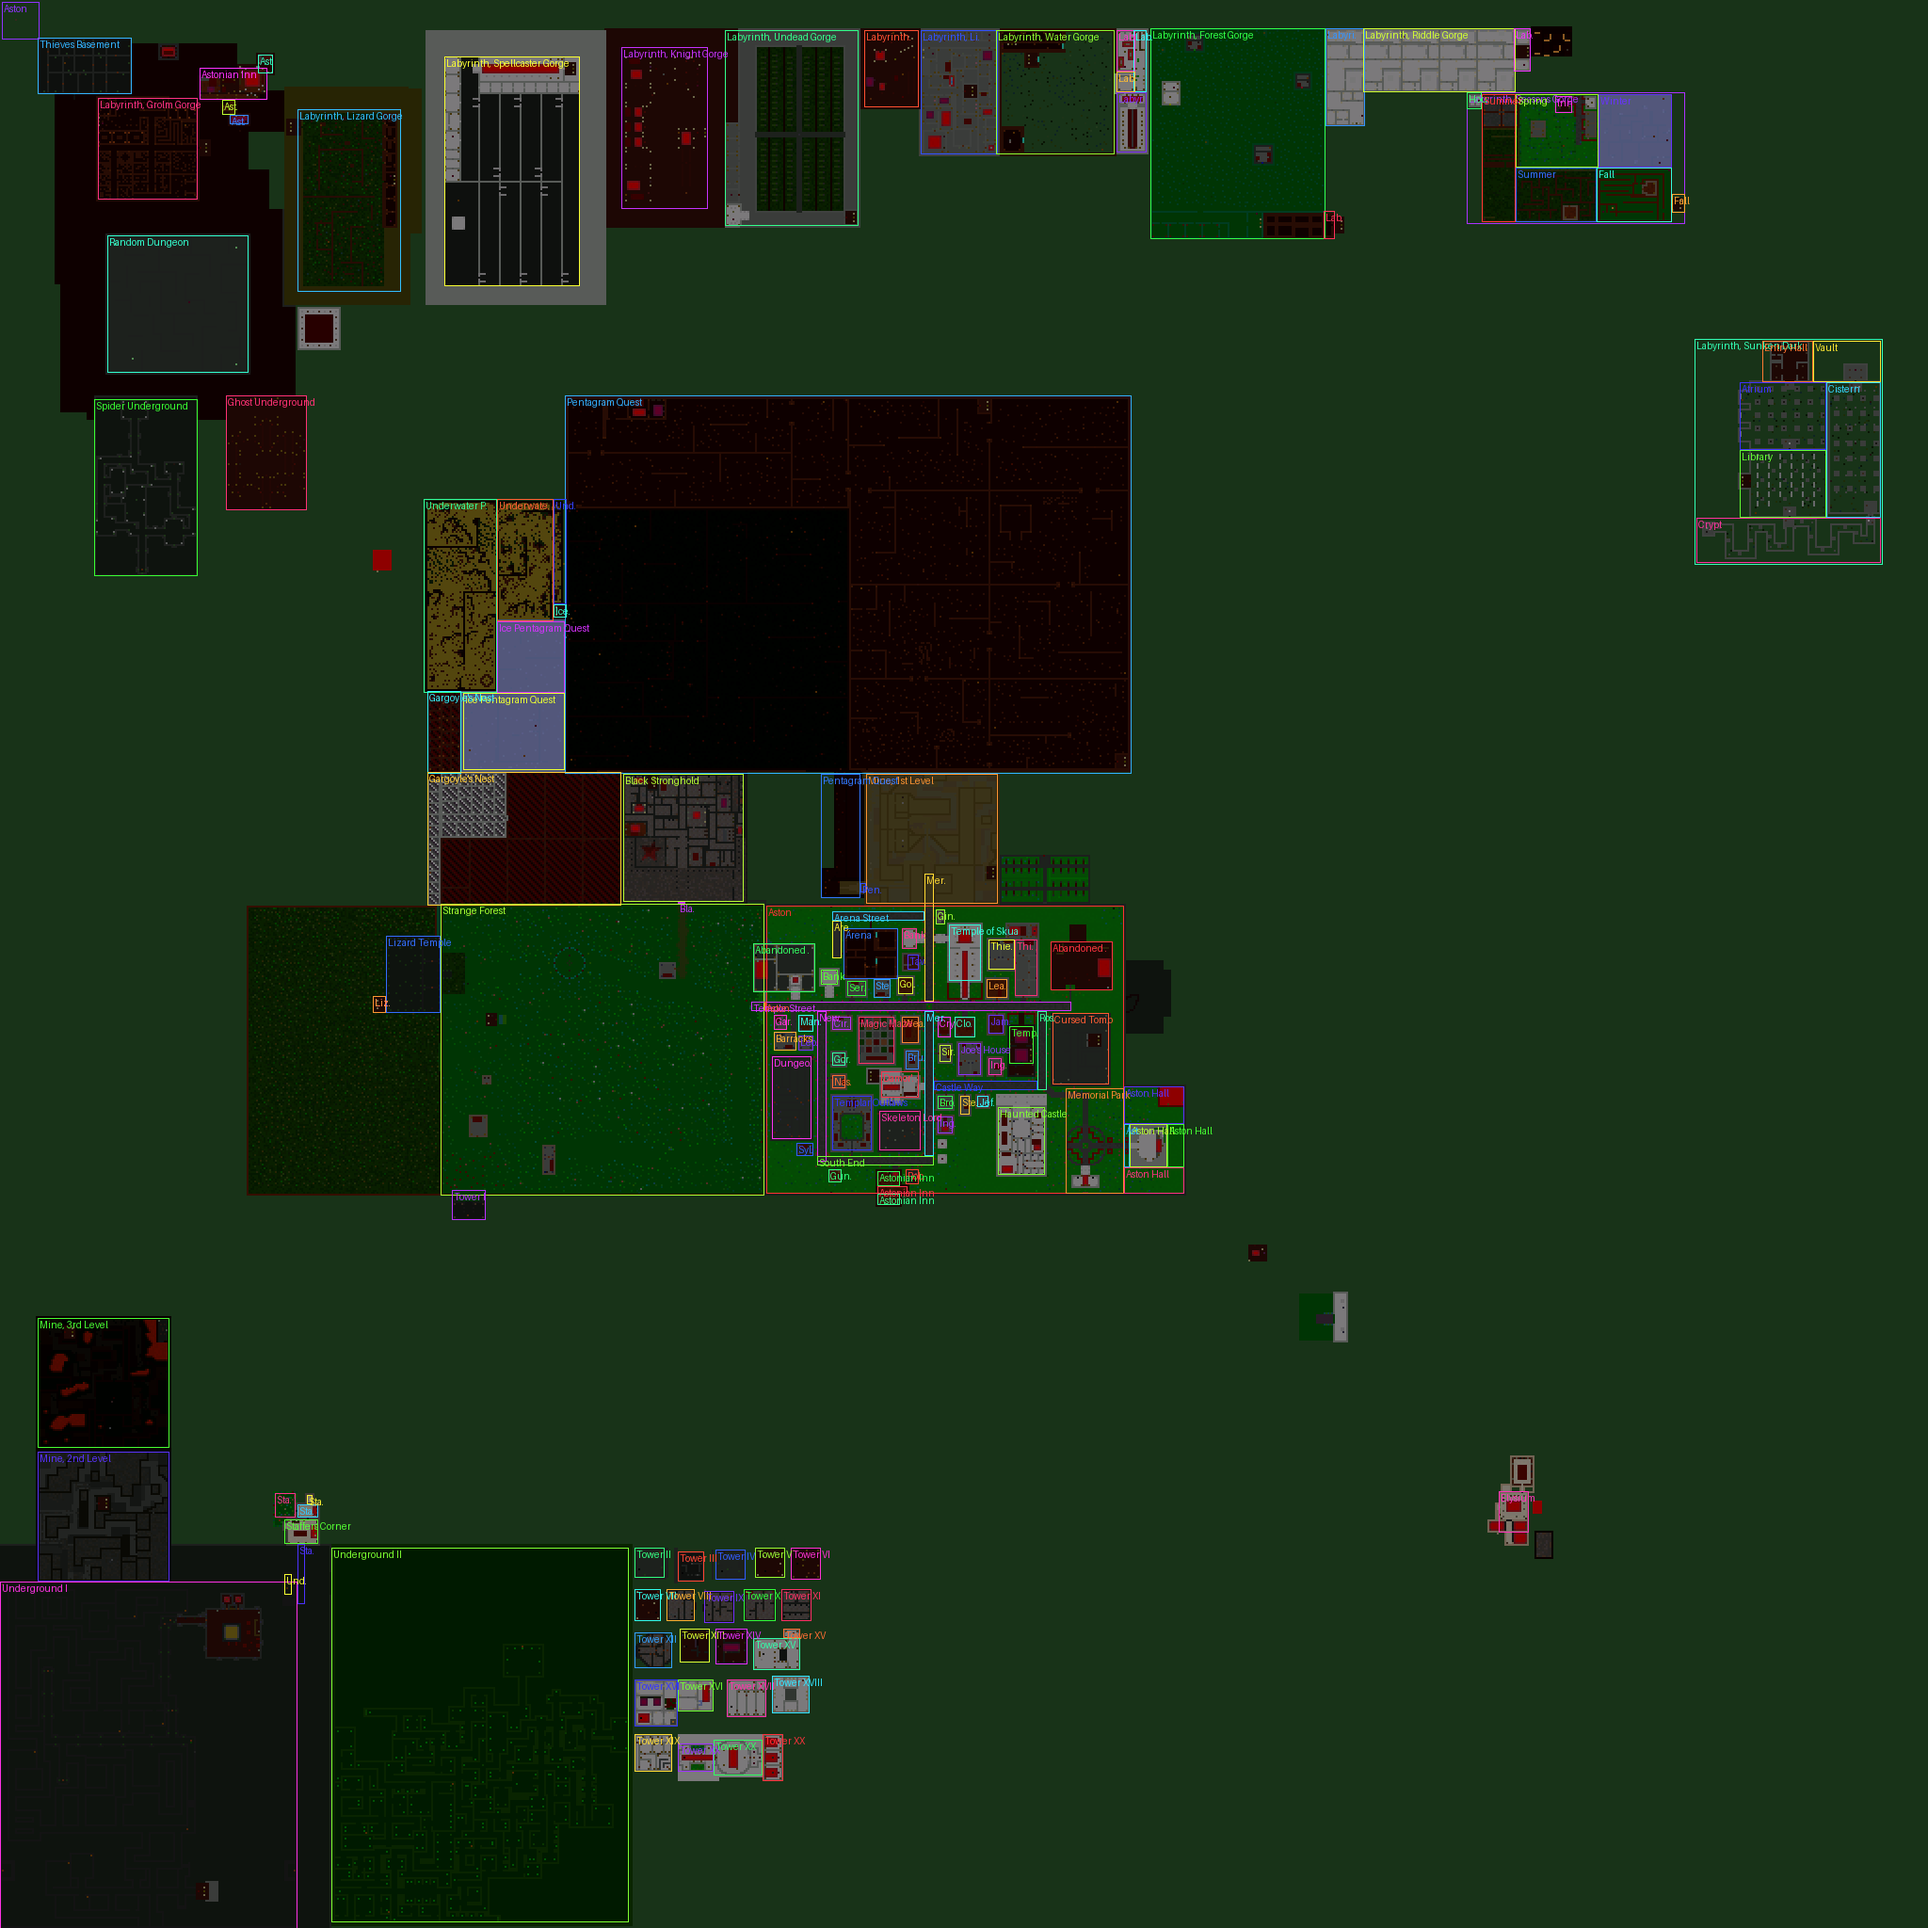
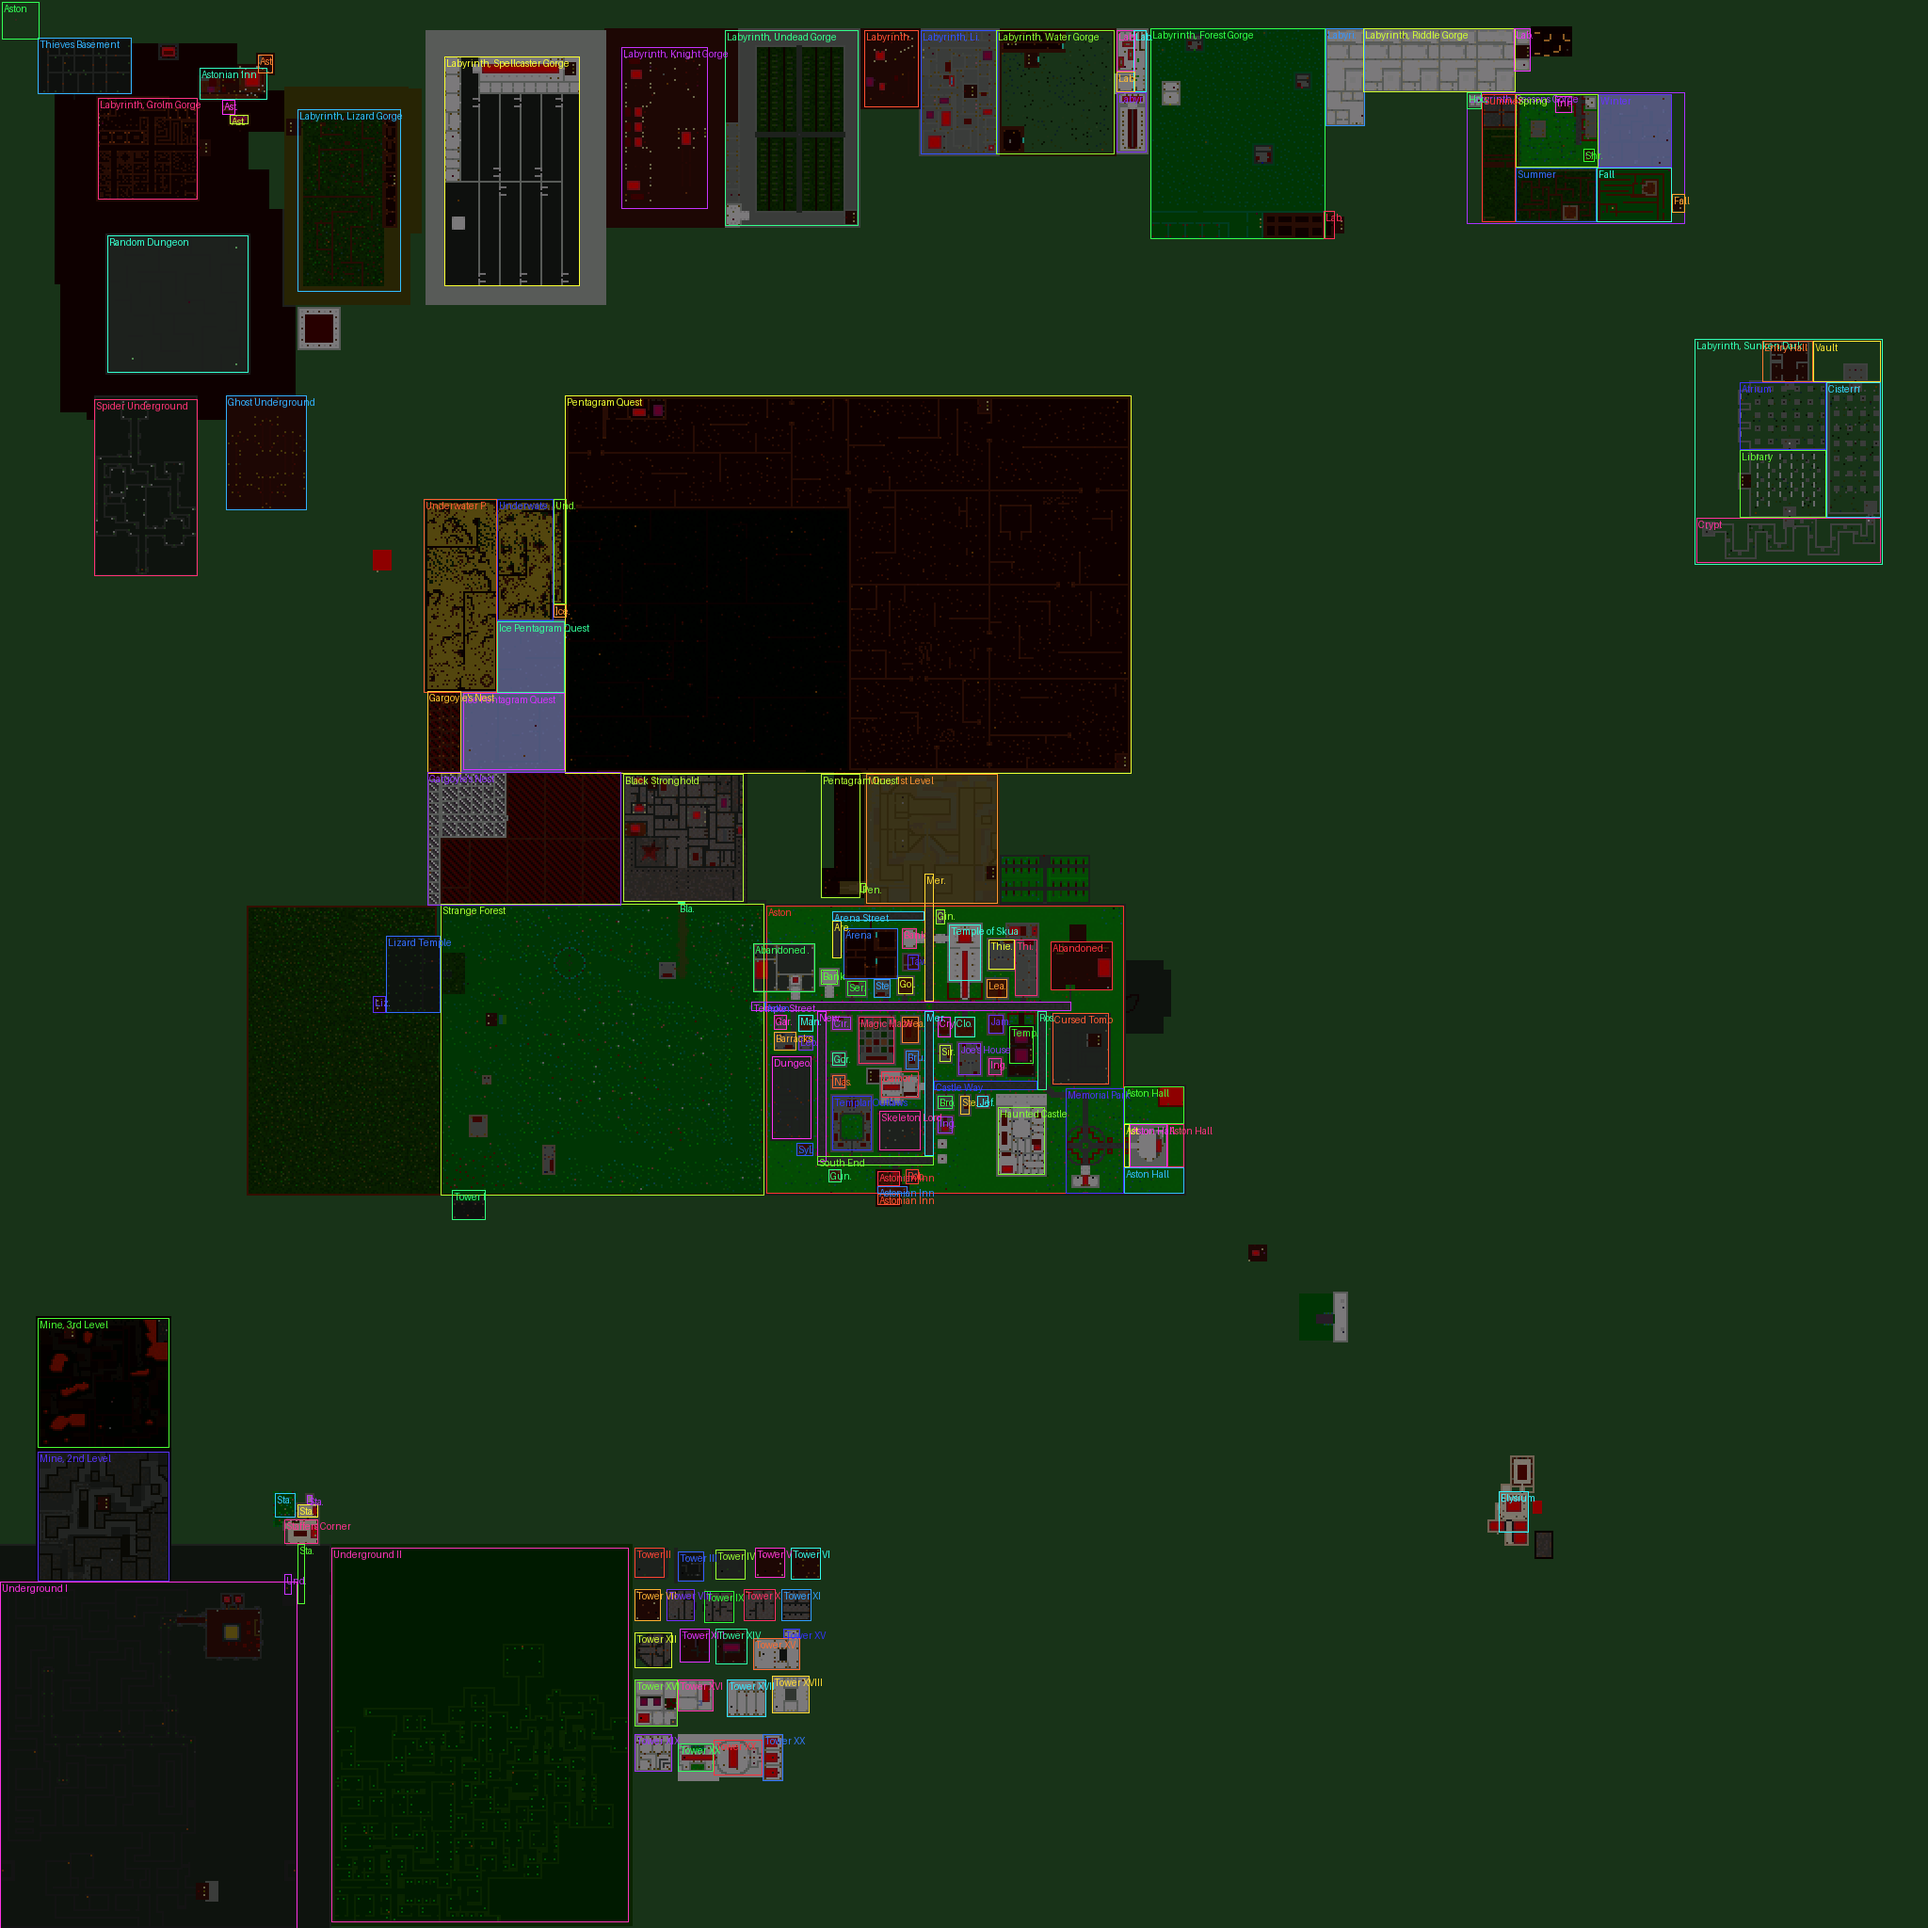
docs: maps redrawn (Lab 10 Shrine of Change)
Claude-Session: https://claude.ai/code/session_01MSjWpMgByR7PswdtguveBk

diff --git a/docs/world_zones.md b/docs/world_zones.md
@@ -103,66 +103,67 @@ Shown by `/who`, by NPCs when asked where you are, and in server logs. A spot in
 | 93 | Fall | 89,848 | 117,887 | "in Fall" |
 | 94 | Fall | 103,888 | 112,894 | "in Fall" |
 | 95 | Winter | 50,849 | 88,887 | "in Winter" |
-| 96 | Spider Underground | 212,50 | 305,104 | "in the Spider Underground" |
-| 97 | Ghost Underground | 210,120 | 270,162 | "in the Ghost Underground" |
-| 98 | Pentagram Quest | 210,300 | 410,600 | "in the Pentagram Quest" |
-| 99 | Ice Pentagram Quest | 368,246 | 408,299 | "in the Ice Pentagram Quest" |
-| 100 | Ice Pentagram Quest | 330,264 | 367,299 | "in the Ice Pentagram Quest" |
-| 101 | Underwater Pentagram Quest | 265,225 | 367,263 | "in the Underwater Pentagram Quest" |
-| 102 | Underwater Pentagram Quest | 265,264 | 329,293 | "in the Underwater Pentagram Quest" |
-| 103 | Underwater Pentagram Quest | 265,294 | 320,300 | "in the Underwater Pentagram Quest" |
-| 104 | Underground II | 822,176 | 1020,333 | "in the Underground II" |
-| 105 | Elysium | 792,796 | 813,811 | "in the Elysium" |
-| 106 | Gargoyle's Nest | 367,227 | 410,244 | "in the Gargoyle's Nest" |
-| 107 | Gargoyle's Nest | 410,227 | 480,329 | "in the Gargoyle's Nest" |
-| 108 | Aston | 1,1 | 20,20 | "in Aston" |
-| 109 | Astonian Inn | 622,466 | 629,477 | "in the Astonian Inn" |
-| 110 | Astonian Inn | 630,466 | 633,481 | "in the Astonian Inn" |
-| 111 | Astonian Inn | 61,122 | 65,131 | "in the Astonian Inn" |
-| 112 | Astonian Inn | 53,118 | 60,124 | "in the Astonian Inn" |
-| 113 | Astonian Inn | 36,106 | 52,141 | "in the Astonian Inn" |
-| 114 | Astonian Inn | 29,137 | 38,144 | "in the Astonian Inn" |
-| 115 | Memorial Park | 578,566 | 633,596 | "in the Memorial Park" |
-| 116 | Staffers Corner | 820,158 | 851,161 | "in the Staffers Corner" |
-| 117 | Staffers Corner | 807,151 | 819,168 | "in the Staffers Corner" |
-| 118 | Staffers Corner | 793,146 | 805,156 | "in the Staffers Corner" |
-| 119 | Staffers Corner | 799,158 | 805,168 | "in the Staffers Corner" |
-| 120 | Staffers Corner | 794,163 | 798,165 | "in the Staffers Corner" |
-| 121 | Tower I | 632,240 | 647,257 | "in the Tower I" |
-| 122 | Tower II | 822,337 | 837,352 | "in the Tower II" |
-| 123 | Tower III | 824,360 | 839,373 | "in the Tower III" |
-| 124 | Tower IV | 823,380 | 838,395 | "in the Tower IV" |
-| 125 | Tower V | 822,401 | 837,416 | "in the Tower V" |
-| 126 | Tower VI | 822,420 | 838,435 | "in the Tower VI" |
-| 127 | Tower VII | 844,337 | 860,350 | "in the Tower VII" |
-| 128 | Tower VIII | 844,354 | 860,368 | "in the Tower VIII" |
-| 129 | Tower IX | 845,374 | 861,389 | "in the Tower IX" |
-| 130 | Tower X | 844,395 | 860,411 | "in the Tower X" |
-| 131 | Tower XI | 844,415 | 860,430 | "in the Tower XI" |
-| 132 | Tower XII | 867,337 | 885,356 | "in the Tower XII" |
-| 133 | Tower XIII | 865,361 | 882,376 | "in the Tower XIII" |
-| 134 | Tower XIV | 865,380 | 883,396 | "in the Tower XIV" |
-| 135 | Tower XV | 870,400 | 886,424 | "in the Tower XV" |
-| 136 | Tower XV | 865,416 | 869,424 | "in the Tower XV" |
-| 137 | Tower XVI | 892,337 | 916,359 | "in the Tower XVI" |
-| 138 | Tower XVI | 892,360 | 908,378 | "in the Tower XVI" |
-| 139 | Tower XVII | 892,386 | 911,406 | "in the Tower XVII" |
-| 140 | Tower XVIII | 890,410 | 909,429 | "in the Tower XVIII" |
-| 141 | Tower XIX | 921,337 | 940,356 | "in the Tower XIX" |
-| 142 | Tower XX | 926,360 | 940,378 | "in the Tower XX" |
-| 143 | Tower XX | 924,379 | 942,404 | "in the Tower XX" |
-| 144 | Tower XX | 921,405 | 945,415 | "in the Tower XX" |
-| 145 | Pentagram Quest | 411,436 | 476,456 | "in the Pentagram Quest" |
-| 146 | Aston Hall | 597,600 | 619,619 | "in Aston Hall" |
-| 147 | Lizard Temple Shrine | 529,198 | 537,204 | "in the Lizard Temple Shrine" |
-| 148 | Ice Pents Shrine | 321,294 | 327,300 | "in the Ice Pents Shrine" |
-| 149 | Lizard Temple Shrine | 529,198 | 537,204 | "in the Lizard Temple Shrine" |
-| 150 | Aston Hall | 577,597 | 596,628 | "in the Aston Hall" |
-| 151 | Aston Hall | 597,620 | 619,628 | "in the Aston Hall" |
-| 152 | Aston Hall | 620,597 | 633,628 | "in the Aston Hall" |
-| 153 | Aston Hall | 597,597 | 619,599 | "in the Aston Hall" |
-| 154 | Underground I | 836,151 | 846,154 | "in the Underground I" |
-| 155 | Black Stronghold | 479,360 | 479,363 | "in the Black Stronghold" |
-| 156 | Astonian Inn | 634,466 | 639,477 | "in the Astonian Inn" |
-| 157 | Aston | 532,406 | 536,406 | "in Aston" |
-| 158 | Pentagram Quest | 469,457 | 473,459 | "in the Pentagram Quest" |
+| 96 | Shrine of Change | 79,841 | 85,846 | "in the Shrine of Change" |
+| 97 | Spider Underground | 212,50 | 305,104 | "in the Spider Underground" |
+| 98 | Ghost Underground | 210,120 | 270,162 | "in the Ghost Underground" |
+| 99 | Pentagram Quest | 210,300 | 410,600 | "in the Pentagram Quest" |
+| 100 | Ice Pentagram Quest | 368,246 | 408,299 | "in the Ice Pentagram Quest" |
+| 101 | Ice Pentagram Quest | 330,264 | 367,299 | "in the Ice Pentagram Quest" |
+| 102 | Underwater Pentagram Quest | 265,225 | 367,263 | "in the Underwater Pentagram Quest" |
+| 103 | Underwater Pentagram Quest | 265,264 | 329,293 | "in the Underwater Pentagram Quest" |
+| 104 | Underwater Pentagram Quest | 265,294 | 320,300 | "in the Underwater Pentagram Quest" |
+| 105 | Underground II | 822,176 | 1020,333 | "in the Underground II" |
+| 106 | Elysium | 792,796 | 813,811 | "in the Elysium" |
+| 107 | Gargoyle's Nest | 367,227 | 410,244 | "in the Gargoyle's Nest" |
+| 108 | Gargoyle's Nest | 410,227 | 480,329 | "in the Gargoyle's Nest" |
+| 109 | Aston | 1,1 | 20,20 | "in Aston" |
+| 110 | Astonian Inn | 622,466 | 629,477 | "in the Astonian Inn" |
+| 111 | Astonian Inn | 630,466 | 633,481 | "in the Astonian Inn" |
+| 112 | Astonian Inn | 61,122 | 65,131 | "in the Astonian Inn" |
+| 113 | Astonian Inn | 53,118 | 60,124 | "in the Astonian Inn" |
+| 114 | Astonian Inn | 36,106 | 52,141 | "in the Astonian Inn" |
+| 115 | Astonian Inn | 29,137 | 38,144 | "in the Astonian Inn" |
+| 116 | Memorial Park | 578,566 | 633,596 | "in the Memorial Park" |
+| 117 | Staffers Corner | 820,158 | 851,161 | "in the Staffers Corner" |
+| 118 | Staffers Corner | 807,151 | 819,168 | "in the Staffers Corner" |
+| 119 | Staffers Corner | 793,146 | 805,156 | "in the Staffers Corner" |
+| 120 | Staffers Corner | 799,158 | 805,168 | "in the Staffers Corner" |
+| 121 | Staffers Corner | 794,163 | 798,165 | "in the Staffers Corner" |
+| 122 | Tower I | 632,240 | 647,257 | "in the Tower I" |
+| 123 | Tower II | 822,337 | 837,352 | "in the Tower II" |
+| 124 | Tower III | 824,360 | 839,373 | "in the Tower III" |
+| 125 | Tower IV | 823,380 | 838,395 | "in the Tower IV" |
+| 126 | Tower V | 822,401 | 837,416 | "in the Tower V" |
+| 127 | Tower VI | 822,420 | 838,435 | "in the Tower VI" |
+| 128 | Tower VII | 844,337 | 860,350 | "in the Tower VII" |
+| 129 | Tower VIII | 844,354 | 860,368 | "in the Tower VIII" |
+| 130 | Tower IX | 845,374 | 861,389 | "in the Tower IX" |
+| 131 | Tower X | 844,395 | 860,411 | "in the Tower X" |
+| 132 | Tower XI | 844,415 | 860,430 | "in the Tower XI" |
+| 133 | Tower XII | 867,337 | 885,356 | "in the Tower XII" |
+| 134 | Tower XIII | 865,361 | 882,376 | "in the Tower XIII" |
+| 135 | Tower XIV | 865,380 | 883,396 | "in the Tower XIV" |
+| 136 | Tower XV | 870,400 | 886,424 | "in the Tower XV" |
+| 137 | Tower XV | 865,416 | 869,424 | "in the Tower XV" |
+| 138 | Tower XVI | 892,337 | 916,359 | "in the Tower XVI" |
+| 139 | Tower XVI | 892,360 | 908,378 | "in the Tower XVI" |
+| 140 | Tower XVII | 892,386 | 911,406 | "in the Tower XVII" |
+| 141 | Tower XVIII | 890,410 | 909,429 | "in the Tower XVIII" |
+| 142 | Tower XIX | 921,337 | 940,356 | "in the Tower XIX" |
+| 143 | Tower XX | 926,360 | 940,378 | "in the Tower XX" |
+| 144 | Tower XX | 924,379 | 942,404 | "in the Tower XX" |
+| 145 | Tower XX | 921,405 | 945,415 | "in the Tower XX" |
+| 146 | Pentagram Quest | 411,436 | 476,456 | "in the Pentagram Quest" |
+| 147 | Aston Hall | 597,600 | 619,619 | "in Aston Hall" |
+| 148 | Lizard Temple Shrine | 529,198 | 537,204 | "in the Lizard Temple Shrine" |
+| 149 | Ice Pents Shrine | 321,294 | 327,300 | "in the Ice Pents Shrine" |
+| 150 | Lizard Temple Shrine | 529,198 | 537,204 | "in the Lizard Temple Shrine" |
+| 151 | Aston Hall | 577,597 | 596,628 | "in the Aston Hall" |
+| 152 | Aston Hall | 597,620 | 619,628 | "in the Aston Hall" |
+| 153 | Aston Hall | 620,597 | 633,628 | "in the Aston Hall" |
+| 154 | Aston Hall | 597,597 | 619,599 | "in the Aston Hall" |
+| 155 | Underground I | 836,151 | 846,154 | "in the Underground I" |
+| 156 | Black Stronghold | 479,360 | 479,363 | "in the Black Stronghold" |
+| 157 | Astonian Inn | 634,466 | 639,477 | "in the Astonian Inn" |
+| 158 | Aston | 532,406 | 536,406 | "in Aston" |
+| 159 | Pentagram Quest | 469,457 | 473,459 | "in the Pentagram Quest" |
